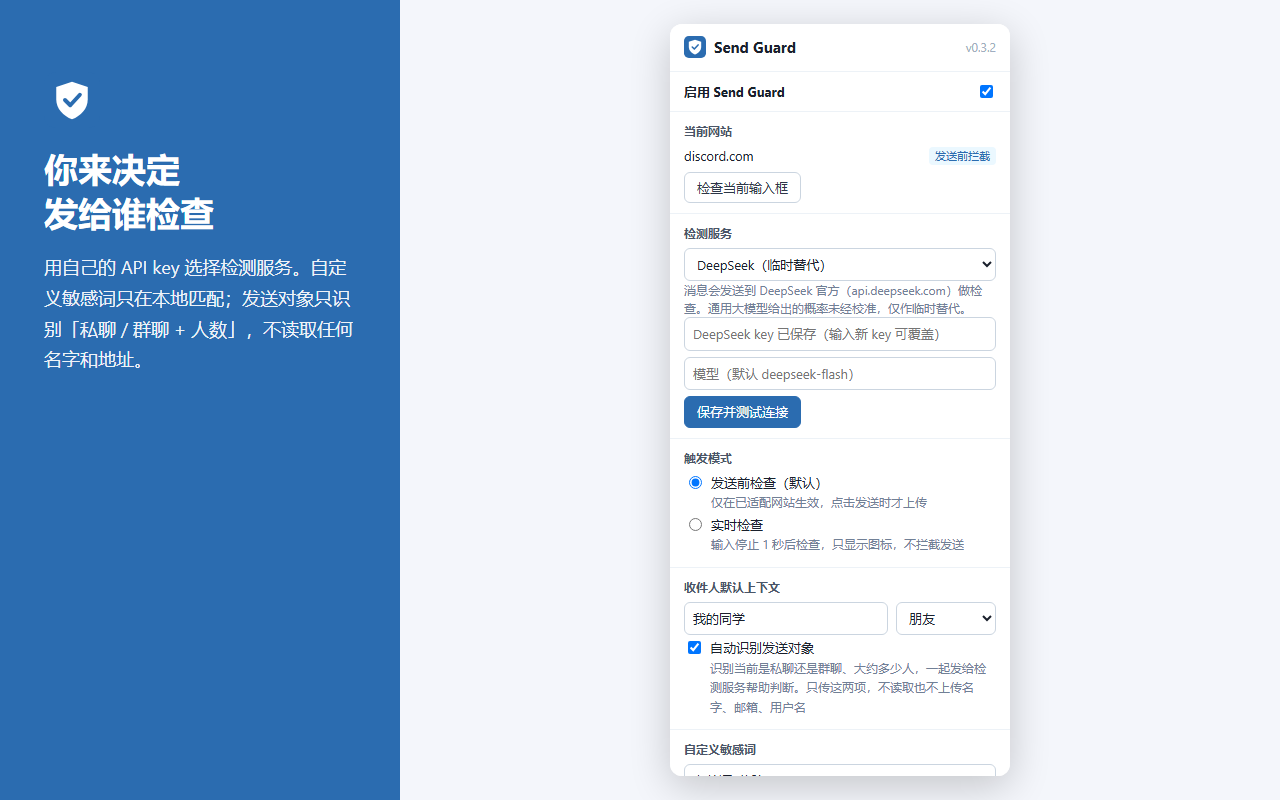
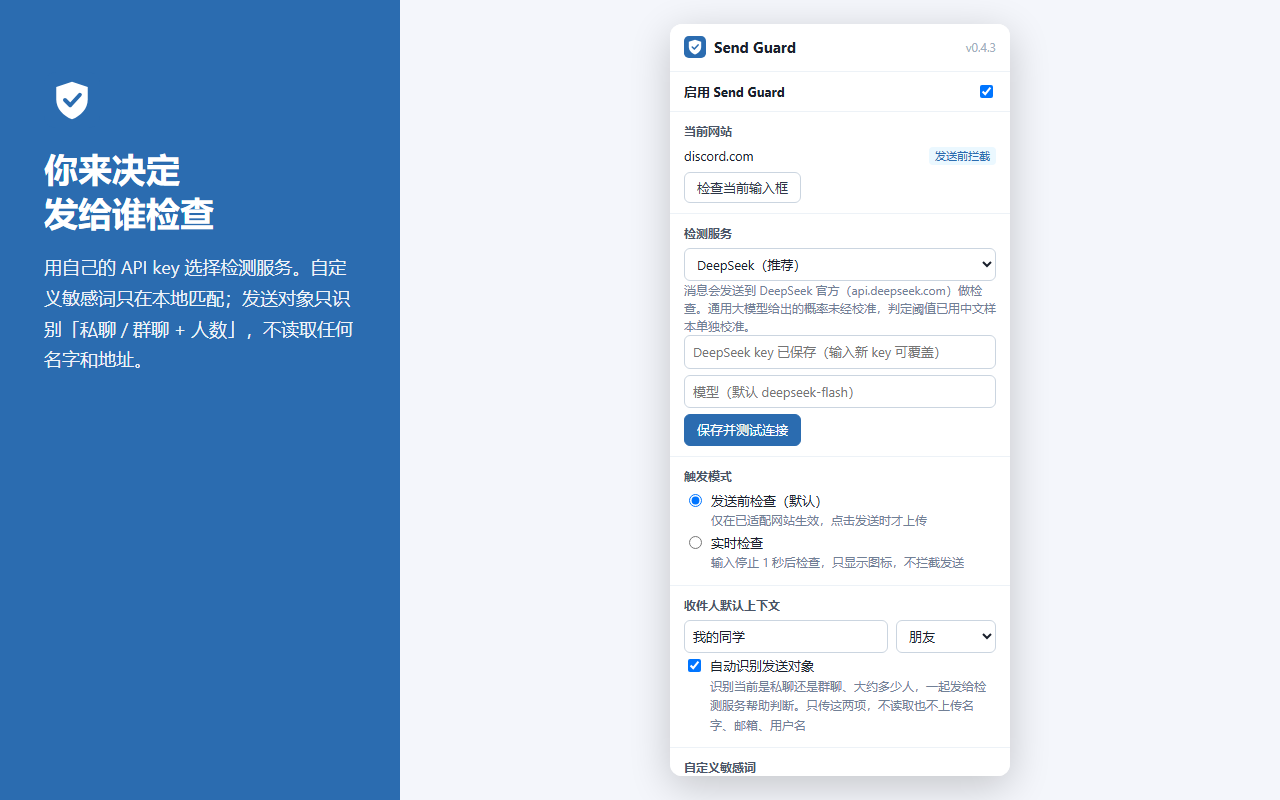
store: 英文商店截图与宣传图，更新审核说明

Changed region(s): [[0.5312, 0.375, 0.7812, 0.9688], [0.5938, 0.3125, 0.6562, 0.3438]]

diff --git a/store/screenshots/03-popup-en.html b/store/screenshots/03-popup-en.html
@@ -1,0 +1,15 @@
+<!doctype html>
+<html lang="en-US"><head><meta charset="utf-8"><link rel="stylesheet" href="common.css">
+<style>
+  .stage { display: flex; justify-content: center; align-items: flex-start; padding-top: 24px; }
+  iframe { width: 340px; height: 752px; border: 0; border-radius: 12px; background: #fff; box-shadow: 0 10px 40px rgba(0,0,0,.2); }
+</style></head>
+<body>
+  <div class="caption">
+    <img src="../../packages/extension/icons/icon.svg" alt="">
+    <h1>You choose<br>who checks it</h1>
+    <p>Bring your own API key. Custom sensitive words are matched only on your device; the audience hint is just direct vs. group and a rough size — no names or addresses.</p>
+  </div>
+  <div class="stage"><iframe></iframe></div>
+  <script>document.querySelector("iframe").srcdoc = "<!doctype html>\r\n<html>\r\n<head>\r\n  <meta charset=\"utf-8\">\r\n  <title>Send Guard<\/title>\r\n  <style>\r\n    * { box-sizing: border-box; }\r\n    [hidden] { display: none !important; }\r\n    body {\r\n      margin: 0; width: 340px; font: 13px/1.5 -apple-system, \"Segoe UI\", \"Microsoft YaHei\", sans-serif;\r\n      color: #1a202c; background: #fff;\r\n    }\r\n    header { display: flex; align-items: center; gap: 8px; padding: 12px 14px; border-bottom: 1px solid #edf2f7; }\r\n    header img { width: 22px; height: 22px; }\r\n    header h1 { font-size: 15px; margin: 0; flex: 1; }\r\n    header .ver { color: #a0aec0; font-size: 12px; }\r\n    section { padding: 10px 14px; border-bottom: 1px solid #edf2f7; }\r\n    h2 { font-size: 12px; font-weight: 600; color: #4a5568; margin: 0 0 6px; }\r\n    input[type=text], input[type=password], textarea, select {\r\n      width: 100%; font: inherit; padding: 6px 8px; border: 1px solid #cbd5e0; border-radius: 6px; background: #fff; color: inherit;\r\n    }\r\n    textarea { resize: vertical; min-height: 48px; }\r\n    button { font: inherit; padding: 5px 12px; border-radius: 6px; border: 1px solid #cbd5e0; background: #fff; cursor: pointer; color: #2d3748; }\r\n    button.primary { background: #2b6cb0; border-color: #2b6cb0; color: #fff; }\r\n    button:disabled { opacity: .5; cursor: default; }\r\n    .row { display: flex; gap: 8px; align-items: center; }\r\n    .row + .row { margin-top: 6px; }\r\n    .grow { flex: 1; }\r\n    .muted { color: #718096; font-size: 12px; }\r\n    .ok { color: #2f855a; }\r\n    .bad { color: #c53030; }\r\n    .tag { font-size: 11px; padding: 1px 6px; border-radius: 4px; background: #edf2f7; color: #4a5568; white-space: nowrap; }\r\n    .tag.verified { background: #ebf8ff; color: #2b6cb0; }\r\n    label.choice { display: flex; gap: 6px; align-items: flex-start; margin: 3px 0; cursor: pointer; }\r\n    label.choice input { margin-top: 3px; }\r\n    .consent { margin: 4px 0 0 22px; padding: 6px 8px; background: #fffaf0; border: 1px solid #fbd38d; border-radius: 6px; }\r\n    ul { list-style: none; margin: 0; padding: 0; }\r\n    li { display: flex; align-items: center; gap: 6px; padding: 3px 0; }\r\n    li .origin { flex: 1; overflow: hidden; text-overflow: ellipsis; white-space: nowrap; }\r\n    li button { padding: 1px 8px; font-size: 12px; }\r\n    footer { padding: 10px 14px; color: #4a5568; font-size: 12px; background: #f7fafc; }\r\n    .switch { display: flex; align-items: center; justify-content: space-between; }\r\n  <\/style>\r\n<\/head>\r\n<body>\r\n  <header>\r\n    <img src=\"../../packages/extension/icons/icon.svg\" alt=\"\">\r\n    <h1>Send Guard<\/h1>\r\n    <span class=\"ver\" id=\"version\"><\/span>\r\n  <\/header>\r\n\r\n  <section class=\"switch\">\r\n    <strong data-i18n=\"enable\"><\/strong>\r\n    <input type=\"checkbox\" id=\"enabled\">\r\n  <\/section>\r\n\r\n  <section>\r\n    <h2 data-i18n=\"currentSite\"><\/h2>\r\n    <div class=\"row\">\r\n      <span class=\"grow\" id=\"siteName\">—<\/span>\r\n      <span class=\"tag\" id=\"siteTag\"><\/span>\r\n    <\/div>\r\n    <div class=\"row\">\r\n      <button class=\"primary\" id=\"enableSite\" hidden data-i18n=\"enableSite\"><\/button>\r\n      <button id=\"manualCheck\" hidden data-i18n=\"manualCheck\"><\/button>\r\n    <\/div>\r\n    <div class=\"muted\" id=\"siteMsg\"><\/div>\r\n  <\/section>\r\n\r\n  <section>\r\n    <h2 data-i18n=\"service\"><\/h2>\r\n    <div class=\"row\">\r\n      <select id=\"provider\" class=\"grow\">\r\n        <option value=\"jev\" data-i18n=\"providerJev\"><\/option>\r\n        <option value=\"deepseek\" data-i18n=\"providerDeepseek\"><\/option>\r\n        <option value=\"openrouter\" data-i18n=\"providerOpenrouter\"><\/option>\r\n      <\/select>\r\n    <\/div>\r\n    <div class=\"muted\" id=\"providerNote\"><\/div>\r\n    <div class=\"row\">\r\n      <input type=\"password\" id=\"apiKey\" class=\"grow\" autocomplete=\"off\" spellcheck=\"false\">\r\n    <\/div>\r\n    <div class=\"row\" id=\"modelRow\">\r\n      <input type=\"text\" id=\"model\" class=\"grow\" spellcheck=\"false\" maxlength=\"100\">\r\n    <\/div>\r\n    <div class=\"row\">\r\n      <button class=\"primary\" id=\"saveKey\" data-i18n=\"saveKey\"><\/button>\r\n      <span class=\"muted\" id=\"keyMsg\"><\/span>\r\n    <\/div>\r\n  <\/section>\r\n\r\n  <section>\r\n    <h2 data-i18n=\"mode\"><\/h2>\r\n    <label class=\"choice\"><input type=\"radio\" name=\"mode\" value=\"presend\" id=\"modePresend\">\r\n      <span><span data-i18n=\"modePresend\"><\/span><br><span class=\"muted\" data-i18n=\"modePresendHint\"><\/span><\/span><\/label>\r\n    <label class=\"choice\"><input type=\"radio\" name=\"mode\" value=\"realtime\" id=\"modeRealtime\">\r\n      <span><span data-i18n=\"modeRealtime\"><\/span><br><span class=\"muted\" data-i18n=\"modeRealtimeHint\"><\/span><\/span><\/label>\r\n    <label class=\"choice consent\" id=\"consentBox\" hidden><input type=\"checkbox\" id=\"consent\">\r\n      <span data-i18n=\"consent\"><\/span><\/label>\r\n  <\/section>\r\n\r\n  <section>\r\n    <h2 data-i18n=\"recipient\"><\/h2>\r\n    <div class=\"row\">\r\n      <input type=\"text\" id=\"recipientContext\" class=\"grow\" data-i18n-ph=\"recipientPlaceholder\" maxlength=\"200\">\r\n      <select id=\"relationship\" style=\"width: 100px\">\r\n        <option value=\"\" data-i18n=\"relNone\"><\/option>\r\n        <option value=\"colleague\" data-i18n=\"relColleague\"><\/option>\r\n        <option value=\"friend\" data-i18n=\"relFriend\"><\/option>\r\n        <option value=\"stranger\" data-i18n=\"relStranger\"><\/option>\r\n        <option value=\"group\" data-i18n=\"relGroup\"><\/option>\r\n        <option value=\"other\" data-i18n=\"relOther\"><\/option>\r\n      <\/select>\r\n    <\/div>\r\n    <label class=\"choice\"><input type=\"checkbox\" id=\"autoAudience\">\r\n      <span><span data-i18n=\"autoAudience\"><\/span><br><span class=\"muted\" data-i18n=\"autoAudienceHint\"><\/span><\/span><\/label>\r\n  <\/section>\r\n\r\n  <section>\r\n    <h2 data-i18n=\"words\"><\/h2>\r\n    <textarea id=\"sensitiveWords\" data-i18n-ph=\"wordsPlaceholder\"><\/textarea>\r\n    <div class=\"muted\" data-i18n=\"wordsHint\"><\/div>\r\n  <\/section>\r\n\r\n  <section>\r\n    <h2 data-i18n=\"sites\"><\/h2>\r\n    <ul id=\"sites\"><\/ul>\r\n    <div class=\"muted\" id=\"sitesEmpty\" data-i18n=\"sitesEmpty\"><\/div>\r\n  <\/section>\r\n\r\n  <footer>\r\n    <div id=\"statsLine\"><\/div>\r\n    <div id=\"costLine\"><\/div>\r\n  <\/footer>\r\n\r\n  <script>window.chrome = {\n  i18n: { getUILanguage: () => \"en-US\" },\n  runtime: { getManifest: () => ({ version: \"0.4.3\" }),\n    async sendMessage(m) {\n      if (m.type === \"getPopupState\") return {\n        hasKey: { jev: false, deepseek: true, openrouter: false }, models: { deepseek: \"\", openrouter: \"\" },\n        sites: [\"https://mail.google.com/*\", \"https://discord.com/*\"],\n        settings: { enabled: true, provider: \"deepseek\", mode: \"presend\", realtimeConsent: false, recipientContext: \"my classmates\", relationship: \"friend\", sensitiveWords: \"passport, hospital\", autoAudience: true },\n        stats: { month: \"2026-09\", count: 128, input: 58900, output: 4100, jevInput: 0, deepseekInput: 58900, deepseekOutput: 4100, costUsd: 0 } };\n      return true } },\n  tabs: { async query() { return [{ id: 1, url: \"https://discord.com/channels/1/2\" }] } },\n  permissions: { async request() { return true } }\n};<\/script><script>\"use strict\";\n(() => {\n  // packages/core/src/types.ts\n  var SENSITIVE_CATEGORIES = [\n    \"health\",\n    \"financial\",\n    \"relationship\",\n    \"location\",\n    \"professional\",\n    \"none\"\n  ];\n\n  // packages/core/src/llm.ts\n  var RESPONSE_SCHEMA = {\n    type: \"object\",\n    properties: {\n      third_party: { type: \"number\" },\n      identity_linkable: { type: \"number\" },\n      sensitive_category: { type: \"string\", enum: [...SENSITIVE_CATEGORIES] },\n      review_worthiness: { type: \"number\" }\n    },\n    required: [\"third_party\", \"identity_linkable\", \"sensitive_category\", \"review_worthiness\"],\n    additionalProperties: false\n  };\n  var LLM_PRESETS = {\n    // https://api-docs.deepseek.com/zh-cn/ （2026-09-25 核对：deepseek-flash = V4.1-Flash，JSON Output 用 json_object）\n    deepseek: {\n      label: \"DeepSeek\",\n      endpoint: \"https://api.deepseek.com/chat/completions\",\n      defaultModel: \"deepseek-flash\",\n      extraBody: {\n        response_format: { type: \"json_object\" },\n        thinking: { type: \"disabled\" }\n        // 默认是思考模式，关掉以降低延迟和费用\n      }\n    },\n    // https://openrouter.ai/docs （json_schema 结构化输出；只路由到支持该参数、且不留存数据的服务商）\n    openrouter: {\n      label: \"OpenRouter\",\n      endpoint: \"https://openrouter.ai/api/v1/chat/completions\",\n      defaultModel: \"deepseek/deepseek-v4.1-flash\",\n      extraBody: {\n        response_format: {\n          type: \"json_schema\",\n          json_schema: { name: \"privacy_check\", strict: true, schema: RESPONSE_SCHEMA }\n        },\n        provider: { require_parameters: true, data_collection: \"deny\" },\n        usage: { include: true }\n      }\n    }\n  };\n\n  // packages/core/src/templates.ts\n  function pickLocale(lang) {\n    return lang?.toLowerCase().startsWith(\"zh\") ? \"zh\" : \"en\";\n  }\n  var ESTIMATE_USD_PER_M_INPUT = 0.042;\n  function estimateCostUsd(inputTokens) {\n    return inputTokens / 1e6 * ESTIMATE_USD_PER_M_INPUT;\n  }\n  function formatUsd(v) {\n    if (v > 0 && v < 0.01) return \"<$0.01\";\n    return `$${v.toFixed(2)}`;\n  }\n  var DEEPSEEK_CNY_PER_M_INPUT = 2;\n  var DEEPSEEK_CNY_PER_M_OUTPUT = 8;\n  function estimateDeepseekCny(input, output) {\n    return input / 1e6 * DEEPSEEK_CNY_PER_M_INPUT + output / 1e6 * DEEPSEEK_CNY_PER_M_OUTPUT;\n  }\n  function formatCny(v) {\n    if (v > 0 && v < 0.01) return \"<¥0.01\";\n    return `¥${v.toFixed(2)}`;\n  }\n  var PROVIDER_LABELS = {\n    jev: \"TypeSafe Jev\",\n    deepseek: \"DeepSeek\",\n    openrouter: \"OpenRouter\"\n  };\n\n  // packages/extension/src/i18n.ts\n  var locale = pickLocale(typeof chrome !== \"undefined\" ? chrome.i18n?.getUILanguage?.() : void 0);\n  var zh = {\n    // 面板\n    headWarn: \"⚠  发送前注意\",\n    headRed: \"🔴  发送前注意\",\n    headDone: \"检查完成\",\n    headWords: \"🔴  命中自定义敏感词\",\n    headError: \"?  检查未完成\",\n    headSkipped: \"未检查\",\n    rowThirdParty: \"第三方隐私\",\n    rowIdentity: \"身份可链接\",\n    rowCategory: \"敏感类别\",\n    rowReview: \"复核建议\",\n    rowAudience: \"发送对象\",\n    audienceOff: \"未开启自动识别\",\n    wordsHit: (w) => `命中：${w}。此检查在本地完成，未上传任何内容。`,\n    wordsSep: \"、\",\n    errorNoKey: \"尚未设置 API key，请在扩展弹窗中填写。本次未做检查，不代表内容安全。\",\n    errorFailed: \"检查未完成，请确认 API key 和网络。本次未做检查，不代表内容安全。\",\n    skippedShort: \"内容较短且未涉及他人或敏感信息，未上传检查。\",\n    skippedEmpty: \"输入框为空。\",\n    skippedSensitive: \"敏感字段（密码 / 支付 / 登录表单），不做处理。\",\n    truncated: (n) => `内容较长，仅检查了前 ${n} 字。`,\n    sendAnyway: \"仍然发送\",\n    review: \"我再看看\",\n    gotIt: \"知道了\",\n    iconLoading: \"Send Guard 检测中…\",\n    iconWarn: \"发送前注意，点击查看\",\n    iconRed: \"高风险，点击查看\",\n    iconError: \"检查未完成，请确认 API key\",\n    summaryEnd: \"。\",\n    // 弹窗\n    enable: \"启用 Send Guard\",\n    currentSite: \"当前网站\",\n    enableSite: \"在此网站启用\",\n    manualCheck: \"检查当前输入框\",\n    service: \"检测服务\",\n    providerJev: \"TypeSafe Jev（概率经过校准，暂停新注册）\",\n    providerDeepseek: \"DeepSeek（推荐）\",\n    providerOpenrouter: \"OpenRouter（临时替代）\",\n    noteJev: \"消息会发送到 TypeSafe（api.typesafe.ai）做检查。\",\n    noteDeepseek: \"消息会发送到 DeepSeek 官方（api.deepseek.com）做检查。通用大模型给出的概率未经校准，判定阈值已用中文样本单独校准。\",\n    noteOpenrouter: \"消息会经 OpenRouter 转发给所选模型的服务商做检查。通用大模型给出的概率未经校准，仅作临时替代。\",\n    keySaved: (p) => `${p} key 已保存（输入新 key 可覆盖）`,\n    keyPaste: (p) => `粘贴你的 ${p} API key`,\n    modelPlaceholder: (m) => `模型（默认 ${m}）`,\n    saveKey: \"保存并测试连接\",\n    testing: \"测试中…\",\n    connected: \"连接成功\",\n    mode: \"触发模式\",\n    modePresend: \"发送前检查（默认）\",\n    modePresendHint: \"仅在已适配网站生效，点击发送时才上传\",\n    modeRealtime: \"实时检查\",\n    modeRealtimeHint: \"输入停止 1 秒后检查，只显示图标，不拦截发送\",\n    consent: \"我已知晓：开启后，未发送的草稿内容会在输入停止时上传至所选的检测服务。\",\n    recipient: \"收件人默认上下文\",\n    recipientPlaceholder: \"例如：我的同事\",\n    relNone: \"关系未设置\",\n    relColleague: \"同事\",\n    relFriend: \"朋友\",\n    relStranger: \"陌生人\",\n    relGroup: \"群组\",\n    relOther: \"其他\",\n    autoAudience: \"自动识别发送对象\",\n    autoAudienceHint: \"识别当前是私聊还是群聊、大约多少人，一起发给检测服务帮助判断。只传这两项，不读取也不上传名字、邮箱、用户名\",\n    words: \"自定义敏感词\",\n    wordsPlaceholder: \"逗号分隔，例如：身份证, 住院, 张三\",\n    wordsHint: \"只在本地匹配，命中时直接标红，不发任何请求\",\n    sites: \"已启用网站\",\n    sitesEmpty: \"还没有启用任何网站\",\n    remove: \"移除\",\n    tagPresend: \"发送前拦截\",\n    tagManual: \"手动检查\",\n    tagDisabled: \"未启用\",\n    unsupportedPage: \"此页面不支持\",\n    granted: \"已启用。\",\n    denied: \"未授权。\",\n    notLoaded: \"页面上还没有加载 Send Guard，请刷新页面后再试。\",\n    noInput: \"请先点一下要检查的输入框，再点这个按钮。\",\n    sensitiveField: \"这是密码 / 支付 / 登录字段，不做检查。\",\n    disabled: \"Send Guard 已关闭。\",\n    stats: (count, input, output) => `本月已检查 ${count} 条，使用 input ${input} / output ${output} tokens`,\n    costOpenrouter: (v) => `OpenRouter 实际费用 ${v}`,\n    costDeepseek: (v, i, o) => `DeepSeek 估算费用约 ${v}（按高峰价 ¥${i}/1M input、¥${o}/1M output 估算）`,\n    costJev: (v, p) => `Jev 估算费用约 ${v}（按 $${p}/1M input tokens 估算）`,\n    costSep: \"；\",\n    // 后台连接测试\n    testNoKey: \"尚未保存 API key\",\n    testBalance: \"账户余额不足\",\n    testInvalid: \"API key 无效或无权限\",\n    testHttp: (s) => `服务返回错误 ${s}`,\n    testTimeout: \"请求超时\",\n    testBadResponse: \"响应格式无法识别\",\n    testNetwork: \"网络错误\"\n  };\n  var en = {\n    headWarn: \"⚠  Check before sending\",\n    headRed: \"🔴  Check before sending\",\n    headDone: \"Check complete\",\n    headWords: \"🔴  Custom sensitive word found\",\n    headError: \"?  Check incomplete\",\n    headSkipped: \"Not checked\",\n    rowThirdParty: \"Third-party privacy\",\n    rowIdentity: \"Identifiable\",\n    rowCategory: \"Category\",\n    rowReview: \"Review advice\",\n    rowAudience: \"Audience\",\n    audienceOff: \"Auto-detection off\",\n    wordsHit: (w) => `Found: ${w}. Checked locally; nothing was uploaded.`,\n    wordsSep: \", \",\n    errorNoKey: \"No API key yet — add one in the extension popup. Nothing was checked; this does not mean the message is safe.\",\n    errorFailed: \"The check could not be completed. Please verify your API key and network. This does not mean the message is safe.\",\n    skippedShort: \"Short message that doesn't involve other people or sensitive details — not uploaded.\",\n    skippedEmpty: \"The input box is empty.\",\n    skippedSensitive: \"Sensitive field (password / payment / login form) — skipped.\",\n    truncated: (n) => `Long message: only the first ${n} characters were checked.`,\n    sendAnyway: \"Send anyway\",\n    review: \"Let me review\",\n    gotIt: \"Got it\",\n    iconLoading: \"Send Guard is checking…\",\n    iconWarn: \"Check before sending — click to see why\",\n    iconRed: \"High risk — click to see why\",\n    iconError: \"Check incomplete — please verify your API key\",\n    summaryEnd: \".\",\n    enable: \"Enable Send Guard\",\n    currentSite: \"Current site\",\n    enableSite: \"Enable on this site\",\n    manualCheck: \"Check current input\",\n    service: \"Detection service\",\n    providerJev: \"TypeSafe Jev (calibrated; signups paused)\",\n    providerDeepseek: \"DeepSeek (recommended)\",\n    providerOpenrouter: \"OpenRouter (temporary alternative)\",\n    noteJev: \"Messages are sent to TypeSafe (api.typesafe.ai) for checking.\",\n    noteDeepseek: \"Messages are sent to DeepSeek (api.deepseek.com) for checking. Scores from general-purpose models are not calibrated; thresholds were tuned separately on labelled samples.\",\n    noteOpenrouter: \"Messages are forwarded by OpenRouter to the selected model's provider. Scores from general-purpose models are not calibrated.\",\n    keySaved: (p) => `${p} key saved (paste a new key to replace it)`,\n    keyPaste: (p) => `Paste your ${p} API key`,\n    modelPlaceholder: (m) => `Model (default ${m})`,\n    saveKey: \"Save & test connection\",\n    testing: \"Testing…\",\n    connected: \"Connected\",\n    mode: \"Trigger\",\n    modePresend: \"Check before sending (default)\",\n    modePresendHint: \"Supported sites only; uploads only when you press Send\",\n    modeRealtime: \"Real-time check\",\n    modeRealtimeHint: \"Checks 1 second after you stop typing; shows an icon, never blocks sending\",\n    consent: \"I understand that unsent drafts will be uploaded to the selected detection service when I pause typing.\",\n    recipient: \"Default recipient context\",\n    recipientPlaceholder: \"e.g. my coworkers\",\n    relNone: \"Relationship\",\n    relColleague: \"Coworker\",\n    relFriend: \"Friend\",\n    relStranger: \"Stranger\",\n    relGroup: \"Group\",\n    relOther: \"Other\",\n    autoAudience: \"Detect the audience automatically\",\n    autoAudienceHint: \"Detects direct message vs. group and roughly how many people, and sends only that to the detection service. Never reads or uploads names, emails or usernames\",\n    words: \"Custom sensitive words\",\n    wordsPlaceholder: \"Comma-separated, e.g. passport, hospital, Alex\",\n    wordsHint: \"Matched locally only; a match is flagged red and nothing is sent\",\n    sites: \"Enabled sites\",\n    sitesEmpty: \"No sites enabled yet\",\n    remove: \"Remove\",\n    tagPresend: \"Checks on Send\",\n    tagManual: \"Manual check\",\n    tagDisabled: \"Not enabled\",\n    unsupportedPage: \"Not available on this page\",\n    granted: \"Enabled.\",\n    denied: \"Permission not granted.\",\n    notLoaded: \"Send Guard isn't loaded on this page yet. Reload the page and try again.\",\n    noInput: \"Click into the input box you want to check first, then press this button.\",\n    sensitiveField: \"Password / payment / login fields are never checked.\",\n    disabled: \"Send Guard is turned off.\",\n    stats: (count, input, output) => `This month: ${count} checks, input ${input} / output ${output} tokens`,\n    costOpenrouter: (v) => `OpenRouter actual cost ${v}`,\n    costDeepseek: (v, i, o) => `DeepSeek estimated cost ${v} (at peak price ¥${i}/1M input, ¥${o}/1M output)`,\n    costJev: (v, p) => `Jev estimated cost ${v} (at $${p}/1M input tokens)`,\n    costSep: \"; \",\n    testNoKey: \"No API key saved\",\n    testBalance: \"Insufficient account balance\",\n    testInvalid: \"Invalid API key or no permission\",\n    testHttp: (s) => `Service returned error ${s}`,\n    testTimeout: \"Request timed out\",\n    testBadResponse: \"Unrecognized response format\",\n    testNetwork: \"Network error\"\n  };\n  var t = locale === \"zh\" ? zh : en;\n\n  // packages/extension/src/sites.ts\n  var SUPPORTED_SITES = [\n    { id: \"gmail\", name: \"Gmail\", hosts: [\"mail.google.com\"] },\n    { id: \"discord\", name: \"Discord\", hosts: [\"discord.com\"] },\n    // mail.qq.com 登录后会跳到新版 wx.mail.qq.com\n    { id: \"qqmail\", name: \"QQ 邮箱\", hosts: [\"wx.mail.qq.com\"] },\n    // 个人账号 outlook.live.com；工作 / 学校账号 outlook.office.com、outlook.office365.com（同一套网页）\n    { id: \"outlook\", name: \"Outlook\", hosts: [\"outlook.live.com\", \"outlook.office.com\", \"outlook.office365.com\"] }\n  ];\n  function supportedSiteFor(hostname) {\n    return SUPPORTED_SITES.find((s) => s.hosts.includes(hostname));\n  }\n  function patternMatchesUrl(pattern, url) {\n    let u;\n    try {\n      u = new URL(url);\n    } catch {\n      return false;\n    }\n    if (pattern === \"<all_urls>\") return u.protocol === \"http:\" || u.protocol === \"https:\";\n    const m = /^(\\*|https?):\\/\\/([^/]+)\\//.exec(pattern);\n    if (!m) return false;\n    const [, scheme, host] = m;\n    if (scheme === \"*\" ? ![\"http:\", \"https:\"].includes(u.protocol) : u.protocol !== `${scheme}:`) return false;\n    if (host === \"*\") return true;\n    if (host.startsWith(\"*.\")) {\n      const base = host.slice(2);\n      return u.hostname === base || u.hostname.endsWith(`.${base}`);\n    }\n    return u.hostname === host;\n  }\n\n  // packages/extension/src/popup.ts\n  document.documentElement.lang = locale === \"zh\" ? \"zh-CN\" : \"en\";\n  document.querySelectorAll(\"[data-i18n]\").forEach((el2) => {\n    el2.textContent = t[el2.dataset.i18n];\n  });\n  document.querySelectorAll(\"[data-i18n-ph]\").forEach((el2) => {\n    el2.placeholder = t[el2.dataset.i18nPh];\n  });\n  var $ = (id) => document.getElementById(id);\n  var el = {\n    version: $(\"version\"),\n    enabled: $(\"enabled\"),\n    siteName: $(\"siteName\"),\n    siteTag: $(\"siteTag\"),\n    enableSite: $(\"enableSite\"),\n    manualCheck: $(\"manualCheck\"),\n    siteMsg: $(\"siteMsg\"),\n    provider: $(\"provider\"),\n    providerNote: $(\"providerNote\"),\n    apiKey: $(\"apiKey\"),\n    modelRow: $(\"modelRow\"),\n    model: $(\"model\"),\n    saveKey: $(\"saveKey\"),\n    keyMsg: $(\"keyMsg\"),\n    modePresend: $(\"modePresend\"),\n    modeRealtime: $(\"modeRealtime\"),\n    consentBox: $(\"consentBox\"),\n    consent: $(\"consent\"),\n    recipientContext: $(\"recipientContext\"),\n    relationship: $(\"relationship\"),\n    autoAudience: $(\"autoAudience\"),\n    sensitiveWords: $(\"sensitiveWords\"),\n    sites: $(\"sites\"),\n    sitesEmpty: $(\"sitesEmpty\"),\n    statsLine: $(\"statsLine\"),\n    costLine: $(\"costLine\")\n  };\n  function send(msg) {\n    return chrome.runtime.sendMessage(msg);\n  }\n  function saveSettings(settings) {\n    return send({ type: \"saveSettings\", settings });\n  }\n  var state;\n  var tab;\n  var tabPattern = null;\n  async function load() {\n    state = await send({ type: \"getPopupState\" });\n    [tab] = await chrome.tabs.query({ active: true, currentWindow: true });\n    render();\n  }\n  function render() {\n    const s = state.settings;\n    el.version.textContent = `v${chrome.runtime.getManifest().version}`;\n    el.enabled.checked = s.enabled;\n    el.provider.value = s.provider;\n    renderProvider();\n    el.modePresend.checked = s.mode === \"presend\" || !s.realtimeConsent;\n    el.modeRealtime.checked = s.mode === \"realtime\" && s.realtimeConsent;\n    el.consent.checked = s.realtimeConsent;\n    el.consentBox.hidden = !el.modeRealtime.checked;\n    if (document.activeElement !== el.recipientContext) el.recipientContext.value = s.recipientContext;\n    el.relationship.value = s.relationship;\n    el.autoAudience.checked = s.autoAudience;\n    if (document.activeElement !== el.sensitiveWords) el.sensitiveWords.value = s.sensitiveWords;\n    renderCurrentSite();\n    renderSites();\n    renderStats();\n  }\n  var PROVIDER_NOTES = { jev: t.noteJev, deepseek: t.noteDeepseek, openrouter: t.noteOpenrouter };\n  function renderProvider() {\n    const p = el.provider.value;\n    el.providerNote.textContent = PROVIDER_NOTES[p];\n    el.apiKey.value = \"\";\n    el.apiKey.placeholder = state.hasKey[p] ? t.keySaved(PROVIDER_LABELS[p]) : t.keyPaste(PROVIDER_LABELS[p]);\n    el.keyMsg.textContent = \"\";\n    if (p === \"jev\") {\n      el.modelRow.hidden = true;\n      return;\n    }\n    el.modelRow.hidden = false;\n    el.model.value = state.models[p];\n    el.model.placeholder = t.modelPlaceholder(LLM_PRESETS[p].defaultModel);\n  }\n  function renderCurrentSite() {\n    el.enableSite.hidden = el.manualCheck.hidden = true;\n    el.siteTag.textContent = \"\";\n    tabPattern = null;\n    let url = null;\n    try {\n      url = tab?.url ? new URL(tab.url) : null;\n    } catch {\n      url = null;\n    }\n    if (!url || url.protocol !== \"https:\" && url.protocol !== \"http:\") {\n      el.siteName.textContent = t.unsupportedPage;\n      return;\n    }\n    el.siteName.textContent = url.hostname;\n    tabPattern = `${url.protocol}//${url.hostname}/*`;\n    const supported = supportedSiteFor(url.hostname);\n    const enabled = state.sites.some((p) => patternMatchesUrl(p, url.href));\n    if (enabled) {\n      el.siteTag.textContent = supported ? t.tagPresend : t.tagManual;\n      el.siteTag.className = supported ? \"tag verified\" : \"tag\";\n      el.manualCheck.hidden = false;\n    } else {\n      el.siteTag.textContent = t.tagDisabled;\n      el.siteTag.className = \"tag\";\n      el.enableSite.hidden = false;\n    }\n  }\n  function renderSites() {\n    el.sites.replaceChildren();\n    el.sitesEmpty.hidden = state.sites.length > 0;\n    for (const origin of state.sites) {\n      const li = document.createElement(\"li\");\n      const name = document.createElement(\"span\");\n      name.className = \"origin\";\n      name.textContent = origin.replace(/\\/\\*$/, \"\");\n      name.title = origin;\n      const tag = document.createElement(\"span\");\n      const supported = SUPPORTED_SITES.some((s) => s.hosts.some((h) => patternMatchesUrl(origin, `https://${h}/`)));\n      tag.className = supported ? \"tag verified\" : \"tag\";\n      tag.textContent = supported ? t.tagPresend : t.tagManual;\n      const rm = document.createElement(\"button\");\n      rm.textContent = t.remove;\n      rm.addEventListener(\"click\", async () => {\n        rm.disabled = true;\n        await send({ type: \"removeSite\", origin });\n        await load();\n      });\n      li.append(name, tag, rm);\n      el.sites.append(li);\n    }\n  }\n  function renderStats() {\n    const { count, input, output, jevInput, deepseekInput, deepseekOutput, costUsd } = state.stats;\n    el.statsLine.textContent = t.stats(count, input, output);\n    const lines = [];\n    if (costUsd > 0) lines.push(t.costOpenrouter(formatUsd(costUsd)));\n    if (deepseekInput > 0) {\n      lines.push(t.costDeepseek(formatCny(estimateDeepseekCny(deepseekInput, deepseekOutput)), DEEPSEEK_CNY_PER_M_INPUT, DEEPSEEK_CNY_PER_M_OUTPUT));\n    }\n    if (jevInput > 0 || lines.length === 0) {\n      lines.push(t.costJev(formatUsd(estimateCostUsd(jevInput)), ESTIMATE_USD_PER_M_INPUT));\n    }\n    el.costLine.textContent = lines.join(t.costSep);\n  }\n  el.enabled.addEventListener(\"change\", () => saveSettings({ enabled: el.enabled.checked }));\n  el.provider.addEventListener(\"change\", async () => {\n    const provider = el.provider.value;\n    state.settings.provider = provider;\n    renderProvider();\n    await saveSettings({ provider });\n  });\n  el.saveKey.addEventListener(\"click\", async () => {\n    const provider = el.provider.value;\n    const key = el.apiKey.value.trim();\n    el.saveKey.disabled = true;\n    el.keyMsg.className = \"muted\";\n    try {\n      if (key) {\n        await send({ type: \"saveApiKey\", provider, apiKey: key });\n        state.hasKey[provider] = true;\n      }\n      if (provider !== \"jev\" && el.model.value.trim() !== state.models[provider]) {\n        await send({ type: \"saveModel\", provider, model: el.model.value });\n        state.models[provider] = el.model.value.trim();\n      }\n      renderProvider();\n      el.keyMsg.textContent = t.testing;\n      const r = await send({ type: \"testConnection\" });\n      el.keyMsg.textContent = r.ok ? t.connected : r.reason;\n      el.keyMsg.className = r.ok ? \"ok\" : \"bad\";\n      state = await send({ type: \"getPopupState\" });\n      renderStats();\n    } finally {\n      el.saveKey.disabled = false;\n    }\n  });\n  el.modePresend.addEventListener(\"change\", () => {\n    if (!el.modePresend.checked) return;\n    el.consentBox.hidden = true;\n    void saveSettings({ mode: \"presend\" });\n  });\n  el.modeRealtime.addEventListener(\"change\", () => {\n    if (!el.modeRealtime.checked) return;\n    el.consentBox.hidden = false;\n    if (!el.consent.checked) {\n      el.modePresend.checked = true;\n      return;\n    }\n    void saveSettings({ mode: \"realtime\" });\n  });\n  el.consent.addEventListener(\"change\", async () => {\n    if (el.consent.checked) {\n      el.modeRealtime.checked = true;\n      await saveSettings({ realtimeConsent: true, mode: \"realtime\" });\n    } else {\n      el.modePresend.checked = true;\n      el.consentBox.hidden = true;\n      await saveSettings({ realtimeConsent: false, mode: \"presend\" });\n    }\n  });\n  el.recipientContext.addEventListener(\"change\", () => saveSettings({ recipientContext: el.recipientContext.value }));\n  el.relationship.addEventListener(\"change\", () => saveSettings({ relationship: el.relationship.value }));\n  el.autoAudience.addEventListener(\"change\", () => saveSettings({ autoAudience: el.autoAudience.checked }));\n  el.sensitiveWords.addEventListener(\"change\", () => saveSettings({ sensitiveWords: el.sensitiveWords.value }));\n  el.enableSite.addEventListener(\"click\", async () => {\n    if (!tabPattern) return;\n    const granted = await chrome.permissions.request({ origins: [tabPattern] }).catch(() => false);\n    el.siteMsg.textContent = granted ? t.granted : t.denied;\n    await load();\n  });\n  el.manualCheck.addEventListener(\"click\", async () => {\n    if (tab?.id === void 0) return;\n    el.siteMsg.textContent = \"\";\n    let r;\n    try {\n      r = await chrome.tabs.sendMessage(tab.id, { type: \"manualCheck\" });\n    } catch {\n      el.siteMsg.textContent = t.notLoaded;\n      return;\n    }\n    if (r?.ok) {\n      window.close();\n      return;\n    }\n    el.siteMsg.textContent = { \"no-input\": t.noInput, \"sensitive-field\": t.sensitiveField, disabled: t.disabled }[r?.reason ?? \"no-input\"];\n  });\n  void load();\n})();\n<\/script>\r\n<\/body>\r\n<\/html>\r\n"</script>
+</body></html>

diff --git a/scripts/store-screenshots.ts b/scripts/store-screenshots.ts
@@ -1,5 +1,5 @@
 /**
- * 生成商店截图 store/screenshots/*.png（1280×800）。
+ * 生成商店截图 store/screenshots/*.png（1280×800），中文 + 英文（*-en）各一套。
  *   - 01、02：store/screenshots 下的静态示例页
  *   - 03：用构建好的真实弹窗（dist/popup.html + popup.js）填入示例数据渲染
  * 用本机 Edge / Chrome 的无头模式截图，使用临时用户目录，不碰你的浏览器配置。先运行 npm run build。
@@ -28,28 +28,37 @@ if (!browser) {
   process.exit(1)
 }
 
-// 03：真实弹窗原样放进 iframe（srcdoc，样式互不干扰），chrome.* 换成示例数据
+// 03：真实弹窗原样放进 iframe（srcdoc，样式互不干扰），chrome.* 换成示例数据；中英文各一张
 const version = (JSON.parse(readFileSync(join(DIST, "manifest.json"), "utf8")) as { version: string }).version
-const stub = `window.chrome = {
-  i18n: { getUILanguage: () => "zh-CN" },
+const POPUP_TEXT = {
+  zh: { lang: "zh-CN", suffix: "", context: "我的同学", words: "身份证, 住院",
+    title: "你来决定<br>发给谁检查",
+    desc: "用自己的 API key 选择检测服务。自定义敏感词只在本地匹配；发送对象只识别「私聊 / 群聊 + 人数」，不读取任何名字和地址。" },
+  en: { lang: "en-US", suffix: "-en", context: "my classmates", words: "passport, hospital",
+    title: "You choose<br>who checks it",
+    desc: "Bring your own API key. Custom sensitive words are matched only on your device; the audience hint is just direct vs. group and a rough size — no names or addresses." }
+}
+for (const t of Object.values(POPUP_TEXT)) {
+  const stub = `window.chrome = {
+  i18n: { getUILanguage: () => "${t.lang}" },
   runtime: { getManifest: () => ({ version: "${version}" }),
     async sendMessage(m) {
       if (m.type === "getPopupState") return {
         hasKey: { jev: false, deepseek: true, openrouter: false }, models: { deepseek: "", openrouter: "" },
         sites: ["https://mail.google.com/*", "https://discord.com/*"],
-        settings: { enabled: true, provider: "deepseek", mode: "presend", realtimeConsent: false, recipientContext: "我的同学", relationship: "friend", sensitiveWords: "身份证, 住院", autoAudience: true },
+        settings: { enabled: true, provider: "deepseek", mode: "presend", realtimeConsent: false, recipientContext: "${t.context}", relationship: "friend", sensitiveWords: "${t.words}", autoAudience: true },
         stats: { month: "2026-09", count: 128, input: 58900, output: 4100, jevInput: 0, deepseekInput: 58900, deepseekOutput: 4100, costUsd: 0 } };
       return true } },
   tabs: { async query() { return [{ id: 1, url: "https://discord.com/channels/1/2" }] } },
   permissions: { async request() { return true } }
 };`
-const popupDoc = readFileSync(join(DIST, "popup.html"), "utf8")
-  .replace('src="icons/icon.svg"', 'src="../../packages/extension/icons/icon.svg"')
-  .replace('<script src="popup.js"></script>', () => `<script>${stub}</script><script>${readFileSync(join(DIST, "popup.js"), "utf8")}</script>`)
-// 放进 <script> 里的字符串不能出现 </script>
-const srcdoc = JSON.stringify(popupDoc).replace(/<\//g, "<\\/")
-writeFileSync(join(SHOTS, "03-popup.html"), `<!doctype html>
-<html lang="zh-CN"><head><meta charset="utf-8"><link rel="stylesheet" href="common.css">
+  const popupDoc = readFileSync(join(DIST, "popup.html"), "utf8")
+    .replace('src="icons/icon.svg"', 'src="../../packages/extension/icons/icon.svg"')
+    .replace('<script src="popup.js"></script>', () => `<script>${stub}</script><script>${readFileSync(join(DIST, "popup.js"), "utf8")}</script>`)
+  // 放进 <script> 里的字符串不能出现 </script>
+  const srcdoc = JSON.stringify(popupDoc).replace(/<\//g, "<\\/")
+  writeFileSync(join(SHOTS, `03-popup${t.suffix}.html`), `<!doctype html>
+<html lang="${t.lang}"><head><meta charset="utf-8"><link rel="stylesheet" href="common.css">
 <style>
   .stage { display: flex; justify-content: center; align-items: flex-start; padding-top: 24px; }
   iframe { width: 340px; height: 752px; border: 0; border-radius: 12px; background: #fff; box-shadow: 0 10px 40px rgba(0,0,0,.2); }
@@ -57,17 +66,19 @@ writeFileSync(join(SHOTS, "03-popup.html"), `<!doctype html>
 <body>
   <div class="caption">
     <img src="../../packages/extension/icons/icon.svg" alt="">
-    <h1>你来决定<br>发给谁检查</h1>
-    <p>用自己的 API key 选择检测服务。自定义敏感词只在本地匹配；发送对象只识别「私聊 / 群聊 + 人数」，不读取任何名字和地址。</p>
+    <h1>${t.title}</h1>
+    <p>${t.desc}</p>
   </div>
   <div class="stage"><iframe></iframe></div>
   <script>document.querySelector("iframe").srcdoc = ${srcdoc}</script>
 </body></html>`)
+}
 
 // [页面, 宽, 高]：截图 1280×800；商店图标 300×300；宣传小图 440×280
 const pages: [string, number, number][] = [
   ["01-warning", 1280, 800], ["02-gmail", 1280, 800], ["03-popup", 1280, 800],
-  ["logo-300", 300, 300], ["promo-440x280", 440, 280]
+  ["01-warning-en", 1280, 800], ["02-gmail-en", 1280, 800], ["03-popup-en", 1280, 800],
+  ["logo-300", 300, 300], ["promo-440x280", 440, 280], ["promo-440x280-en", 440, 280]
 ]
 const sleep = (ms: number) => execFileSync(process.execPath, ["-e", `setTimeout(() => {}, ${ms})`])
 

diff --git a/store/screenshots/01-warning-en.html b/store/screenshots/01-warning-en.html
@@ -1,0 +1,55 @@
+<!doctype html>
+<html lang="en">
+<head><meta charset="utf-8"><link rel="stylesheet" href="common.css">
+<style>
+  .discord { position: absolute; inset: 0; background: #313338; color: #dbdee1; display: flex; }
+  .servers { width: 64px; background: #1e1f22; padding-top: 12px; display: flex; flex-direction: column; align-items: center; gap: 8px; }
+  .servers b { width: 44px; height: 44px; border-radius: 16px; background: #5865f2; display: flex; align-items: center; justify-content: center; color: #fff; font-size: 14px; }
+  .servers b.o { background: #3ba55c; border-radius: 22px; }
+  .channels { width: 200px; background: #2b2d31; padding: 16px 10px; font-size: 14px; }
+  .channels .t { font-weight: 700; color: #f2f3f5; margin-bottom: 14px; }
+  .channels div { padding: 6px 8px; border-radius: 4px; color: #949ba4; }
+  .channels .on { background: #404249; color: #f2f3f5; }
+  .chat { flex: 1; display: flex; flex-direction: column; }
+  .chat .top { height: 48px; border-bottom: 1px solid #1f2023; padding: 0 16px; display: flex; align-items: center; font-weight: 600; color: #f2f3f5; }
+  .msgs { flex: 1; padding: 20px 16px; display: flex; flex-direction: column; justify-content: flex-end; gap: 16px; font-size: 15px; }
+  .msg b { color: #f2f3f5; margin-right: 8px; }
+  .msg span { color: #949ba4; font-size: 12px; }
+  .input { margin: 0 16px 20px; background: #383a40; border-radius: 8px; padding: 12px 44px 12px 16px; font-size: 15px; color: #f2f3f5; position: relative; }
+</style></head>
+<body>
+  <div class="caption">
+    <img src="../../packages/extension/icons/icon.svg" alt="">
+    <h1>Look once<br>before you send</h1>
+    <p>One offhand line in a group chat can spill something a friend never meant to share. Send Guard checks when you hit Send and only speaks up when it is worth a second look.</p>
+  </div>
+  <div class="stage">
+    <div class="discord">
+      <div class="servers"><b>CL</b><b class="o">FR</b><b>WK</b></div>
+      <div class="channels"><div class="t">Class of 2026</div><div class="on"># general</div><div># homework</div><div># random</div></div>
+      <div class="chat">
+        <div class="top"># general</div>
+        <div class="msgs">
+          <div class="msg"><b>Jamie</b><span>Today at 8:31 PM</span><div>are the grades out yet?</div></div>
+          <div class="msg"><b>Sam</b><span>Today at 8:32 PM</span><div>yep, class average went up this time</div></div>
+        </div>
+        <div class="input">Big congrats to our class 'genius' for finally not having to retake the exam lol
+          <div class="icon" style="right:10px; top:10px">⚠</div>
+        </div>
+      </div>
+    </div>
+    <div class="panel" style="right:34px; bottom:84px">
+      <div class="head warn">⚠  Check before sending</div>
+      <div class="rows">
+        <div class="row"><span class="label">Third-party privacy</span><span class="val"><span class="band" style="color:#e53e3e">HIGH</span>0.85</span></div>
+        <div class="row"><span class="label">Identifiable</span><span class="val"><span class="band" style="color:#dd6b20">MED</span>0.70</span></div>
+        <div class="row"><span class="label">Category</span><span class="val">Work</span></div>
+        <div class="row"><span class="label">Review advice</span><span class="val"><span class="bar"><i style="background:#4a5568"></i><i style="background:#4a5568"></i><i style="background:linear-gradient(90deg,#4a5568 20%,#e2e8f0 20%)"></i></span>2.2/3</span></div>
+        <div class="row"><span class="label">Audience</span><span class="val">Group / multiple recipients (size unknown)</span></div>
+      </div>
+      <div class="summary">May reveal someone else's private information; Involves work details</div>
+      <div class="actions"><span>Send anyway</span><span class="primary">Let me review</span></div>
+    </div>
+  </div>
+</body>
+</html>

diff --git a/store/screenshots/02-gmail-en.html b/store/screenshots/02-gmail-en.html
@@ -1,0 +1,52 @@
+<!doctype html>
+<html lang="en">
+<head><meta charset="utf-8"><link rel="stylesheet" href="common.css">
+<style>
+  .mail { position: absolute; inset: 0; background: #f6f8fc; }
+  .bar-top { height: 60px; display: flex; align-items: center; padding: 0 20px; font-size: 20px; color: #444; gap: 10px; }
+  .bar-top b { color: #ea4335; }
+  .list { position: absolute; left: 20px; top: 70px; right: 20px; bottom: 20px; background: #fff; border-radius: 16px; }
+  .list div { height: 44px; border-bottom: 1px solid #f1f3f4; margin: 0 16px; }
+  .compose { position: absolute; right: 30px; bottom: 0; width: 520px; height: 520px; background: #fff; border-radius: 10px 10px 0 0; box-shadow: 0 8px 30px rgba(0,0,0,.25); display: flex; flex-direction: column; font-size: 14px; color: #202124; }
+  .compose .h { background: #f2f6fc; padding: 10px 16px; border-radius: 10px 10px 0 0; font-weight: 600; }
+  .field { padding: 8px 16px; border-bottom: 1px solid #f1f3f4; display: flex; gap: 6px; flex-wrap: wrap; align-items: center; color: #5f6368; }
+  .chip { background: #e8eaed; border-radius: 12px; padding: 2px 10px; color: #202124; font-size: 13px; }
+  .body { flex: 1; padding: 12px 16px; line-height: 1.7; position: relative; }
+  .foot { padding: 12px 16px; }
+  .send { display: inline-block; background: #0b57d0; color: #fff; border-radius: 18px; padding: 8px 22px; font-weight: 600; }
+</style></head>
+<body>
+  <div class="caption">
+    <img src="../../packages/extension/icons/icon.svg" alt="">
+    <h1>Email, too</h1>
+    <p>Checks when you click Send or press Ctrl+Enter in Gmail, Outlook or QQ Mail. You can always choose "Send anyway" — it never blocks you.</p>
+  </div>
+  <div class="stage">
+    <div class="mail">
+      <div class="bar-top"><b>M</b> Gmail</div>
+      <div class="list"><div></div><div></div><div></div><div></div><div></div><div></div><div></div></div>
+      <div class="compose">
+        <div class="h">New Message</div>
+        <div class="field">To <span class="chip">Project Team A</span><span class="chip">Alex Wang</span><span class="chip">Maria Zhao</span></div>
+        <div class="field">Subject: Thursday review meeting</div>
+        <div class="body">Hi all, Thursday's review goes ahead as planned.<br>Also, our client Mr. Li is going through chemo right now, so he may miss next week's meeting. Let's prepare as planned.
+          <div class="icon red" style="right:12px; top:10px">🔴</div>
+        </div>
+        <div class="foot"><span class="send">Send</span></div>
+      </div>
+    </div>
+    <div class="panel" style="left:24px; bottom:150px">
+      <div class="head red">🔴  Check before sending</div>
+      <div class="rows">
+        <div class="row"><span class="label">Third-party privacy</span><span class="val"><span class="band" style="color:#e53e3e">HIGH</span>0.95</span></div>
+        <div class="row"><span class="label">Identifiable</span><span class="val"><span class="band" style="color:#e53e3e">HIGH</span>0.90</span></div>
+        <div class="row"><span class="label">Category</span><span class="val">Health</span></div>
+        <div class="row"><span class="label">Review advice</span><span class="val"><span class="bar"><i style="background:#4a5568"></i><i style="background:#4a5568"></i><i style="background:#4a5568"></i></span>3.0/3</span></div>
+        <div class="row"><span class="label">Audience</span><span class="val">Group / multiple recipients (about 2–10 people)</span></div>
+      </div>
+      <div class="summary">May reveal someone else's private information; Could help recipients identify a specific person; Involves health details; Worth a second look before sending</div>
+      <div class="actions"><span>Send anyway</span><span class="primary">Let me review</span></div>
+    </div>
+  </div>
+</body>
+</html>

diff --git a/store/screenshots/promo-440x280-en.html b/store/screenshots/promo-440x280-en.html
@@ -1,0 +1,10 @@
+<!doctype html><html lang="en"><head><meta charset="utf-8">
+<style>
+html,body{margin:0;width:440px;height:280px;overflow:hidden}
+body{background:#2b6cb0;color:#fff;font-family:-apple-system,"Segoe UI","Microsoft YaHei",sans-serif;display:flex;flex-direction:column;justify-content:center;padding:0 36px;box-sizing:border-box;gap:10px}
+.t{display:flex;align-items:center;gap:14px}.t img{width:56px;height:56px}
+h1{margin:0;font-size:32px}p{margin:0;font-size:17px;line-height:1.6;opacity:.92}
+</style></head><body>
+<div class="t"><img src="../../packages/extension/icons/icon.svg" alt=""><h1>Send Guard</h1></div>
+<p>Look once before you send:<br>keep other people's secrets out of the group chat.</p>
+</body></html>

diff --git a/store/listing.md b/store/listing.md
@@ -113,15 +113,19 @@ Open source: https://github.com/Reverie0123/send-guard
 ## 给审核员的测试说明（Notes for certification）
 
 ```
-Send Guard checks a message for third-party privacy disclosure right before it is sent. It uses the reviewer's/user's own API key; no account or server of ours is involved.
+Send Guard checks a message for third-party privacy disclosure right before it is sent. It uses the user's own API key; no account or server of ours is involved. The UI follows the browser language (English, or Chinese on a Chinese browser).
 
 How to test without an API key (recommended for review):
-1. Open https://discord.com or https://mail.google.com, click the extension icon, then "在此网站启用" (Enable on this site) and allow the permission prompt.
-2. Type a message of 20+ characters and press Enter (Discord) or Send / Ctrl+Enter (Gmail).
-3. Sending is paused and a panel appears. Without an API key it shows "? 检查未完成" (check incomplete) — by design, a failed check is never shown as "safe". Click "仍然发送" (Send anyway) to send, or "我再看看" (Let me review) to cancel.
-4. Local-only feature (no key needed): in the popup, enter a word under "自定义敏感词" (custom sensitive words), e.g. "secret". Typing a message containing it and pressing Send shows a red panel; nothing is uploaded.
+1. Open https://discord.com, https://mail.google.com or https://outlook.live.com, click the extension icon, then "Enable on this site" (在此网站启用) and allow the permission prompt.
+2. Type a message of 20+ characters and press Enter (Discord) or Send / Ctrl+Enter (Gmail, Outlook).
+3. Sending is paused and a panel appears. Without an API key it shows "Check incomplete" (检查未完成) - by design, a failed check is never shown as "safe". Click "Send anyway" (仍然发送) to send, or "Let me review" (我再看看) to cancel.
+4. Local-only feature (no key needed): in the popup, enter a word under "Custom sensitive words" (自定义敏感词), e.g. "secret". Typing a message containing it and pressing Send shows a red panel; nothing is uploaded.
 
-Optional, with a key: choose "DeepSeek" in the popup, paste a DeepSeek API key (platform.deepseek.com), click "保存并测试连接". A message like "Li in our class failed three exams and may be expelled" sent in a server channel then shows risk scores.
+No-install demo of the same code with pre-computed results: https://reverie0123.github.io/send-guard/demo/
+
+Optional, with a key: choose "DeepSeek" in the popup, paste a DeepSeek API key (platform.deepseek.com), click "Save & test connection". A message like "Li in our class failed three exams and may be expelled" sent in a server channel then shows risk scores.
+
+Changes in this version: English UI, Outlook and QQ Mail support, group vs. direct message detection, better detection of sarcastic remarks.
 
 Permissions: host access to other sites is optional and only requested when the user clicks "Enable on this site". api.typesafe.ai / api.deepseek.com / openrouter.ai are the detection services the user can choose. No remote code.
 Privacy policy: https://reverie0123.github.io/send-guard/privacy.html
